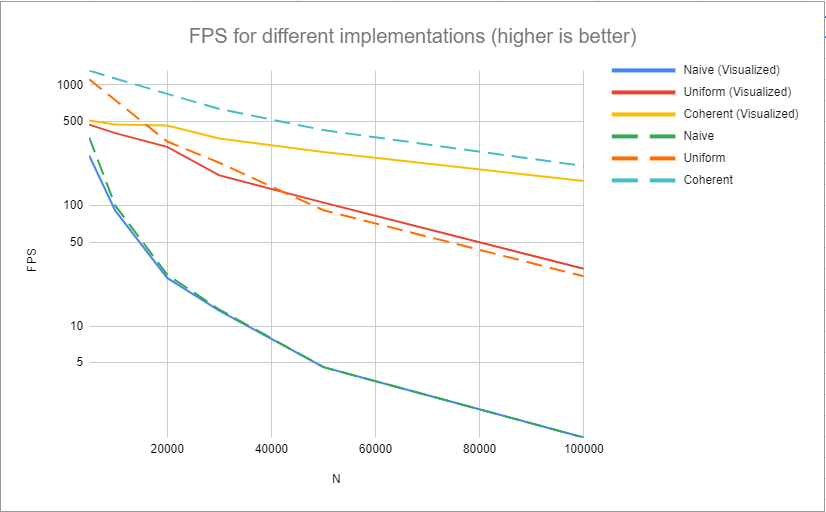
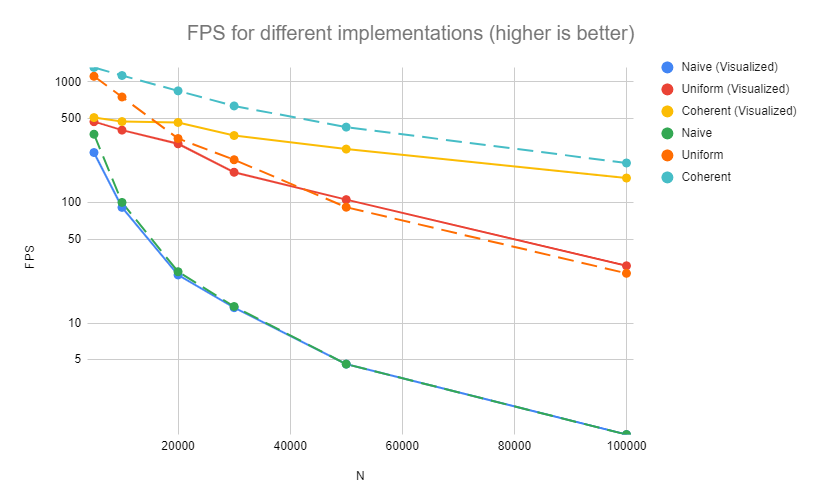
update readme.

diff --git a/src/main.cpp b/src/main.cpp
@@ -13,12 +13,12 @@
 // ================
 
 // LOOK-2.1 LOOK-2.3 - toggles for UNIFORM_GRID and COHERENT_GRID
-#define VISUALIZE 0
-#define UNIFORM_GRID 0
-#define COHERENT_GRID 0
+#define VISUALIZE 1
+#define UNIFORM_GRID 1
+#define COHERENT_GRID 1
 
 // LOOK-1.2 - change this to adjust particle count in the simlation
-const int N_FOR_VIS = 100000;
+const int N_FOR_VIS = 10000;
 const float DT = 0.2f;
 
 

diff --git a/README.md b/README.md
@@ -33,6 +33,28 @@ For each boid, its velocity is adjusted at each time-step based on 3 rules:
 
 
 ## Performance Analysis
+Due to the complexity of the distribution and minor fluctuations in available GPU performance, the FPS does not stabilize at an exact value and has small differences between separate executions. As such, the following data was collected by
+initiating the simulation, waiting for it to relatively stabilize and taking an average of 3 consecutive FPS measurements.
 
 ![FPS measurements](visuals/fps.png)
+As expected, for each of the implementations, increasing the number of boids results in a decrase in performance. For the naive case, the reason is clear; each boid has to iterate over a greater number of boids. For the uniform and coherent case, the reason is that the GPU has limited capacity (both in memory and number of parallel CUDA kernels) and having a large number of boids, even if they are all checking a smaller number of neighbours, takes a longer time to be processed.
 
+This chart also shows that the uniform grid optimization is more efficient than the naive implementation and
+that the coherent grid is the most efficient. The coherent grid's increase in performance is expected as it removes
+unnecessary memory indirection (pointer dereference) for each neighbour of each boid by rearranging the position and
+velocity vectors beforehand. Rearranging takes a single read and write per position and velocity index whereas
+the indirection (in uniform grid) requires an additional read per every pair of neighbours, which, especially for denser
+concentrations with higher boid count is significantly larger.
+
+Furthermore, turning of visualization increases performance in all cases, also an expected result as visualizing the boids consumes gpu resources.
+
+![Block size measurements](visuals/block_size.png)
+
+Changing the block size does not result in a significant performance change. As we are not using shared memory and all
+memory accesses are global, it is not surprising that the size of a block not be a relevant factor.
+
+
+Checking 27 versus 8 (versus the grid-optimized code) did not result in a significant performance difference for the given cell width. This is most likely due to the fact that there are relatively few boids surrounding each boid and checking a few more cells does not results in checking a much larger number of boids.
+However, for larger cell width, the change does start to be more noticeable. This is likely because we are now
+unnecessarily iterating over many more neighbouring boids that are not close enough to be considered by
+the flocking rules. As a rough approximation, on average, at least (27-8)/27 = 19/27 of the boids we encounter are irrelevant which becomes more significant with a larger cell width that causes more irrelevant boids in each cell.
